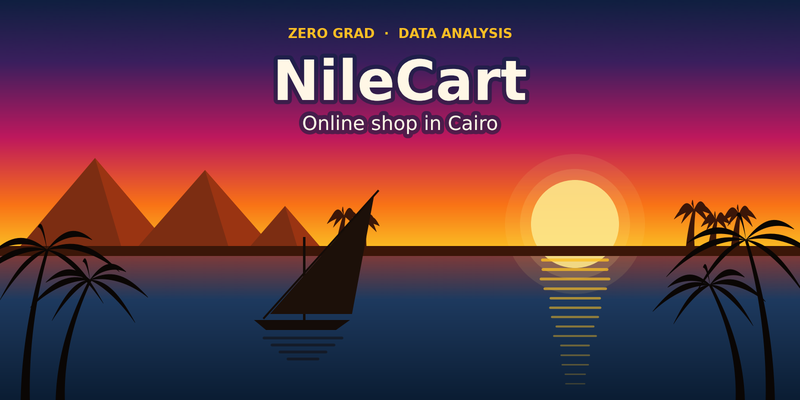
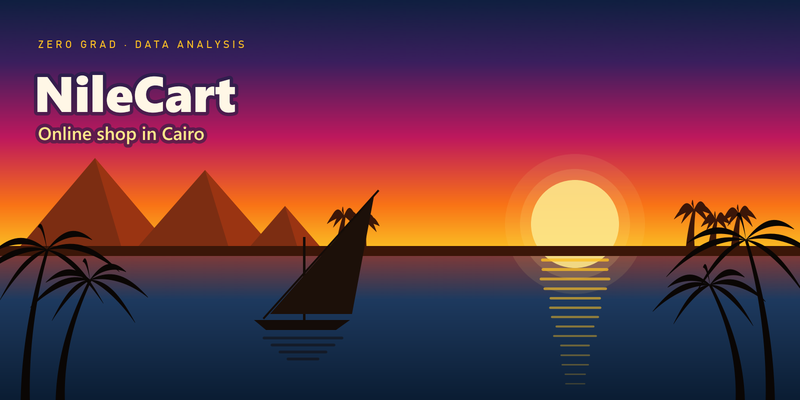
Kaggle cover: title in the left square for the thumbnail, Segoe UI Black

Changed region(s): [[0.3438, 0.06, 0.6875, 0.36], [0.0312, 0.18, 0.3125, 0.36], [0.0312, 0.09, 0.3125, 0.12]]

diff --git a/build/make_dataset_metadata.py b/build/make_dataset_metadata.py
@@ -13,6 +13,7 @@ from pathlib import Path
 
 import matplotlib
 matplotlib.use("Agg")
+import matplotlib.font_manager
 import matplotlib.patheffects
 import matplotlib.pyplot as plt
 import numpy as np
@@ -203,13 +204,16 @@ def make_cover():
     for x, h, lean in [(25, 150, 22), (60, 120, 30), (770, 160, -24), (740, 115, -30)]:
         palm(ax, x, 0, h, lean, "#0a0604", z=7)
 
-    # title: centred so the square thumbnail keeps it
-    shade = dict(path_effects=[matplotlib.patheffects.withStroke(linewidth=6, foreground="#101f4099")])
-    ax.text(W / 2, 362, "ZERO GRAD  ·  DATA ANALYSIS", color="#fbbf24", fontsize=9.5, fontweight="bold",
-            ha="center", zorder=9)
-    ax.text(W / 2, 300, "NileCart", color="#fff7e6", fontsize=40, fontweight="bold", ha="center", zorder=9, **shade)
-    ax.text(W / 2, 270, "Online shop in Cairo", color="#fff7e6", fontsize=14, ha="center",
-            zorder=9, **shade)
+    # title: Kaggle's square thumbnail is the LEFT 400 x 400 of the cover, so the text lives there
+    fonts = Path("C:/Windows/Fonts")
+    black = matplotlib.font_manager.FontProperties(fname=fonts / "seguibl.ttf")
+    semi = matplotlib.font_manager.FontProperties(fname=fonts / "seguisb.ttf")
+    label = matplotlib.font_manager.FontProperties(fname=fonts / "bahnschrift.ttf")
+    shade = dict(path_effects=[matplotlib.patheffects.withStroke(linewidth=5, foreground="#101f4088")])
+    ax.text(38, 352, "Z E R O   G R A D   ·   D A T A   A N A L Y S I S", color="#fbbf24", fontsize=7.5,
+            fontproperties=label, zorder=9)
+    ax.text(34, 288, "NileCart", color="#fff7e6", fontsize=36, fontproperties=black, zorder=9, **shade)
+    ax.text(38, 260, "Online shop in Cairo", color="#fde68a", fontsize=13, fontproperties=semi, zorder=9, **shade)
 
     COVER.parent.mkdir(parents=True, exist_ok=True)
     tmp = COVER.with_suffix(".big.png")
